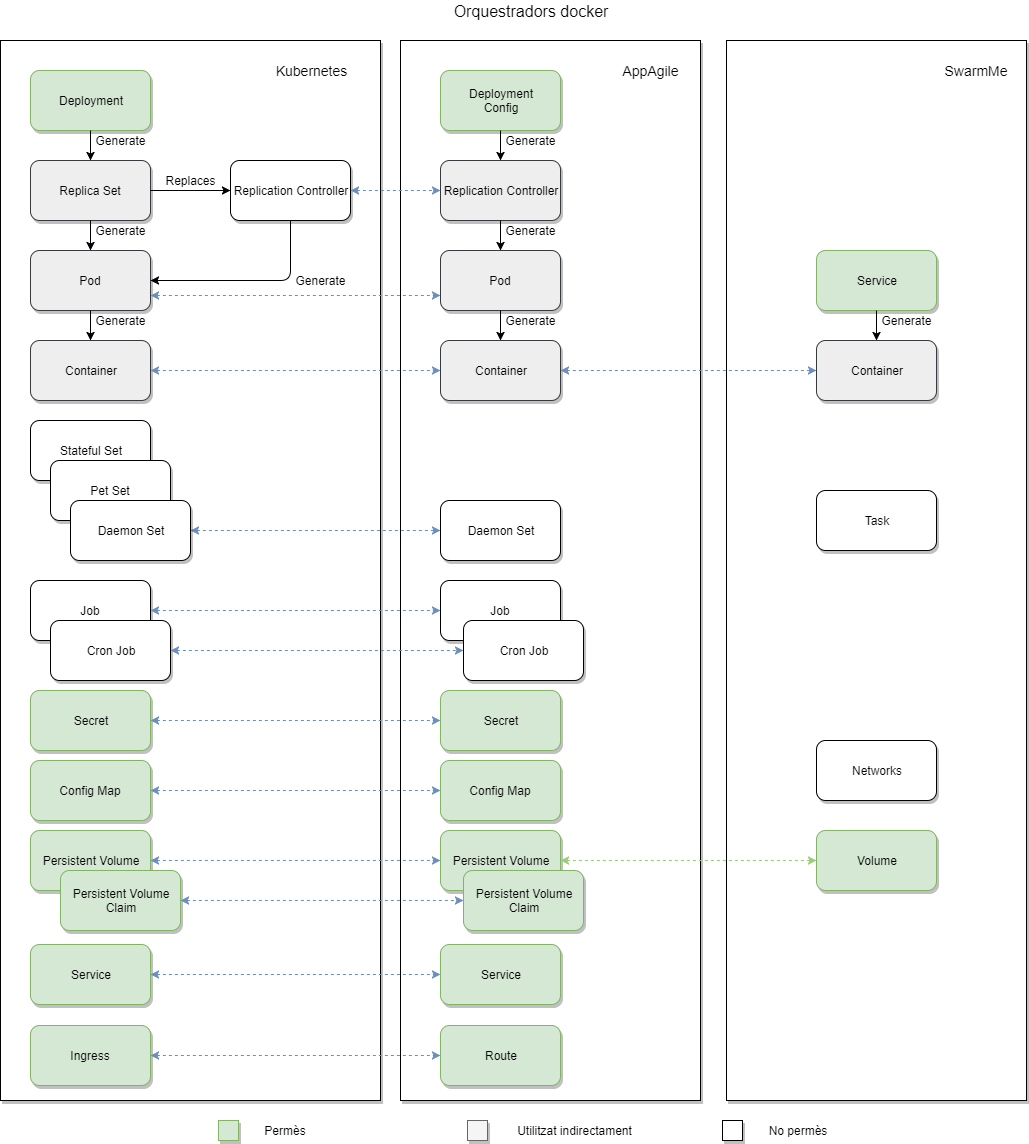
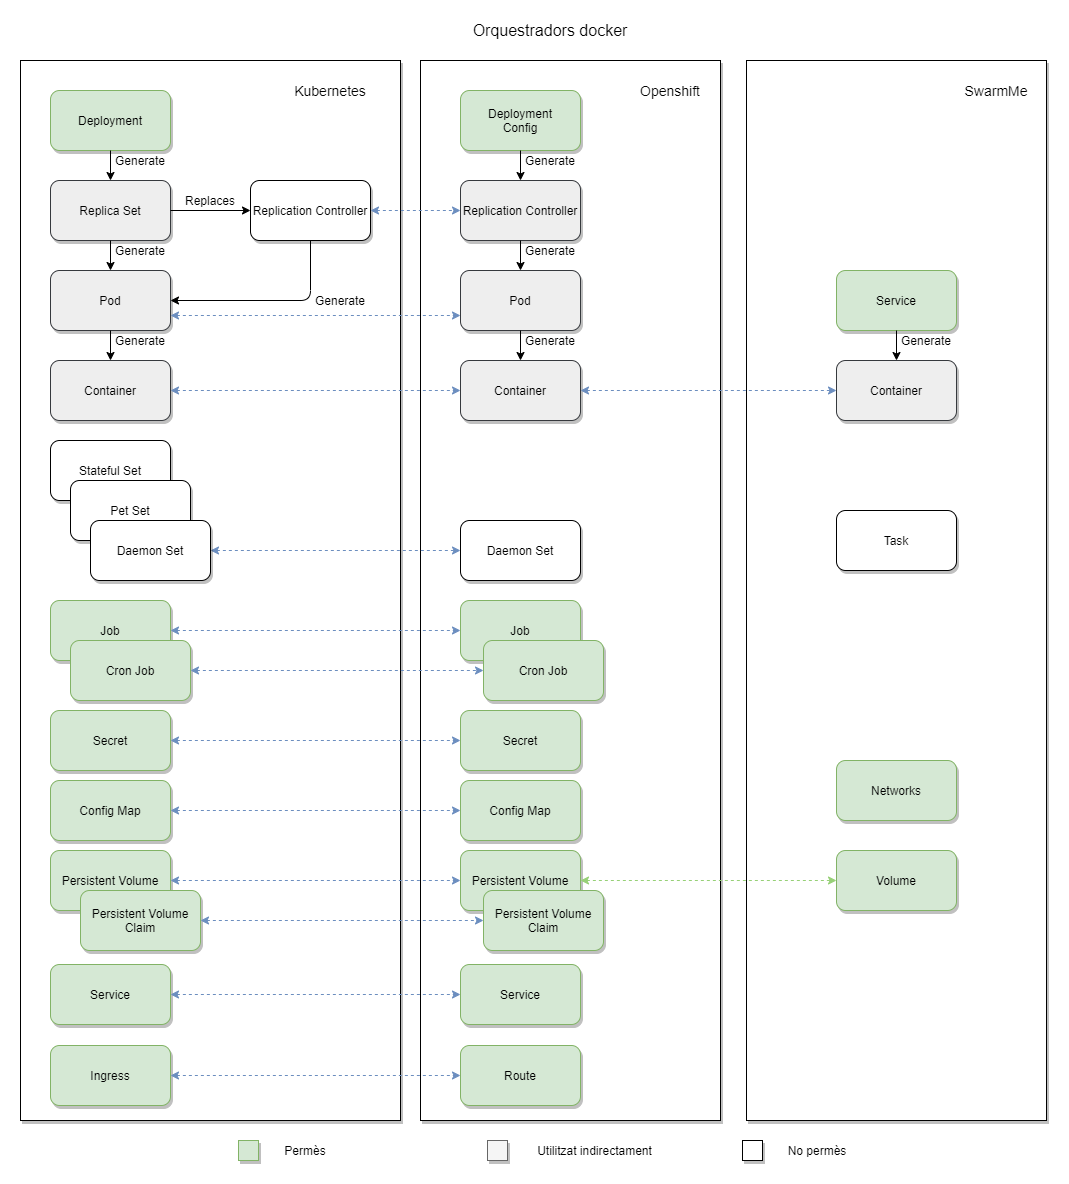
updated orquestradors de contenidors

diff --git a/content/cloud-caas/orquestradors_contenidors.md b/content/cloud-caas/orquestradors_contenidors.md
@@ -13,7 +13,7 @@ Aquests recursos són oferts pels orquestradors.
 Al mercar existeixen diferents eines per orquestrar els contenidors docker.
 La Generalitat de Catalunya dóna suport als següents orquestradors:
 
-* AppAgile (basat en Openshift)
+* Openshift/AppAgile (basat en Openshift)
 * Kubernetes
 * SwarmMe (basat en Swarm)
 
@@ -92,15 +92,18 @@ Per detalls i exemples podeu visitar la plana http://canigo.ctti.gencat.cat/clou
 
 Per més informació podeu consultar la web https://kubernetes.io/
 
-### AppAgile
-AppAgile està basat en Openshift Container Platform.
+### Openshift/AppAgile
 Desenvolupat per Red Hat, basat en Kubernetes.
 Afegeix funcionalitat addicional a Kubernetes (gestió d'usuaris, segmentació de xarxa, sistema centralitzat de logs).
 Acostuma a portar un endarreriment respecte a l'última versió de kubernetes d'uns tres o quatre mesos.
 
-Per detalls i exemples podeu visitar la plana http://canigo.ctti.gencat.cat/cloud-caas/contenidors_appagile/
+Per detalls i exemples podeu visitar la plana [Contenidors Openshift](http://canigo.ctti.gencat.cat/cloud-caas/contenidors_openshift/)
 
-Per més informació podeu consultar les webs http://appagile.io/ i https://docs.openshift.com/container-platform/3.5/
+Per més informació podeu consultar les webs:
+
+-  http://appagile.io/
+-  https://docs.openshift.com/container-platform/3.9/welcome/index.html
+-  https://docs.openshift.com/container-platform/4.3/welcome/index.html
 
 ## Imatges
 A l'hora de construir les imatges docker, cal tenir present els criteris definits per la Generalitat de Catalunya i que cada orquestrador, tot i que totes les plataformes es basen en docker, té les seves particularitats.
